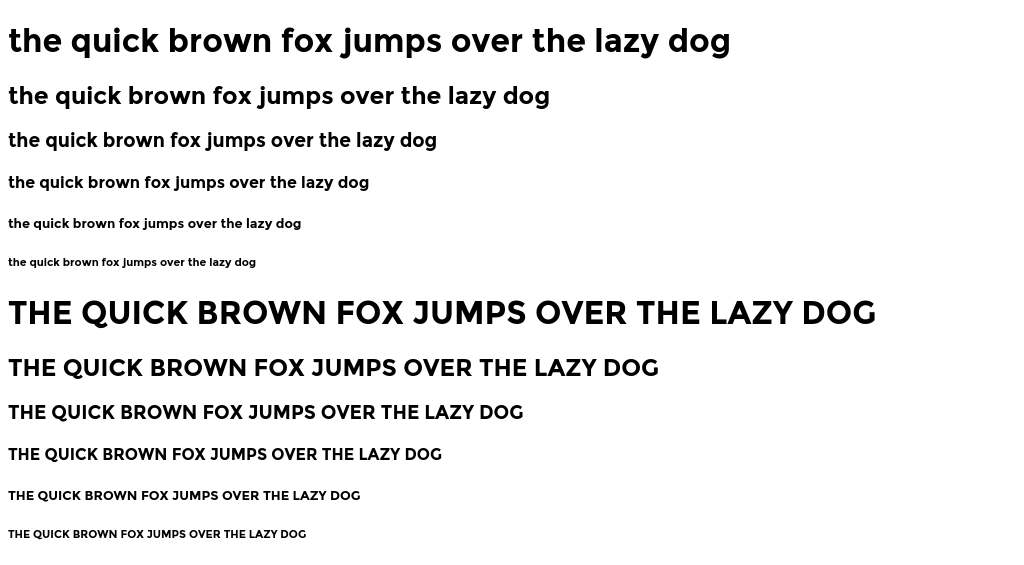
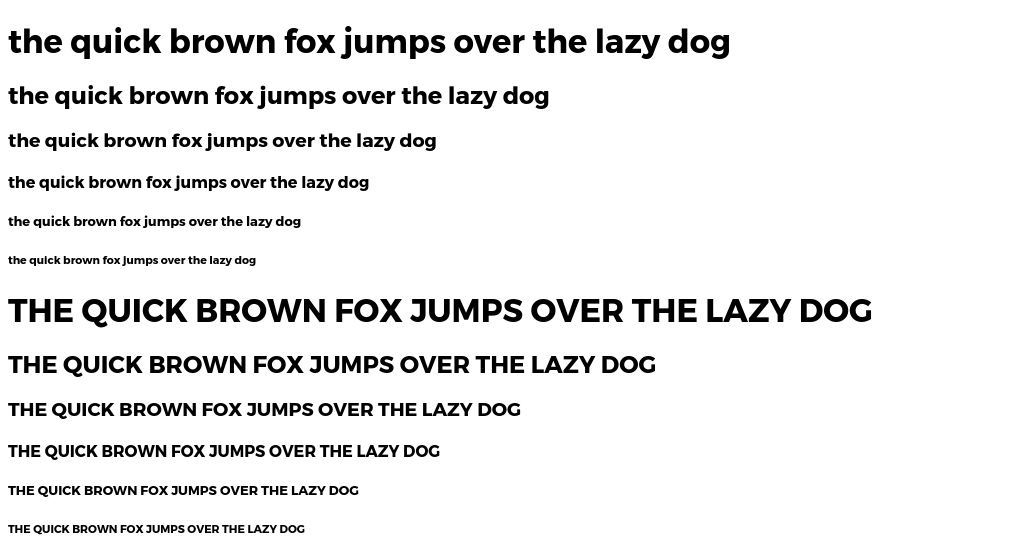
try dtp

diff --git a/foo.html b/foo.html
@@ -2,7 +2,7 @@
 <html>
   <head>
     <meta charset="UTF-8">
-    <link rel="stylesheet" type="text/css" href="/home/graingert/projects/bad-fonts-wkhtmltopdf/node_modules/@typopro/web-montserrat/TypoPRO-Montserrat.css">
+    <link rel="stylesheet" type="text/css" href="/home/graingert/projects/bad-fonts-wkhtmltopdf/node_modules/@typopro/dtp-montserrat/TypoPRO-Montserrat.css">
     <style>
     body {
       font-family: 'TypoPRO Montserrat';

diff --git a/index.js b/index.js
@@ -1,4 +1,4 @@
-const montserrat = require.resolve('@typopro/web-montserrat/TypoPRO-Montserrat.css');
+const montserrat = require.resolve('@typopro/dtp-montserrat/TypoPRO-Montserrat.css');
 const text = 'the quick brown fox jumps over the lazy dog';
 
 const headerTags = ['h1', 'h2', 'h3', 'h4', 'h5', 'h6'];
